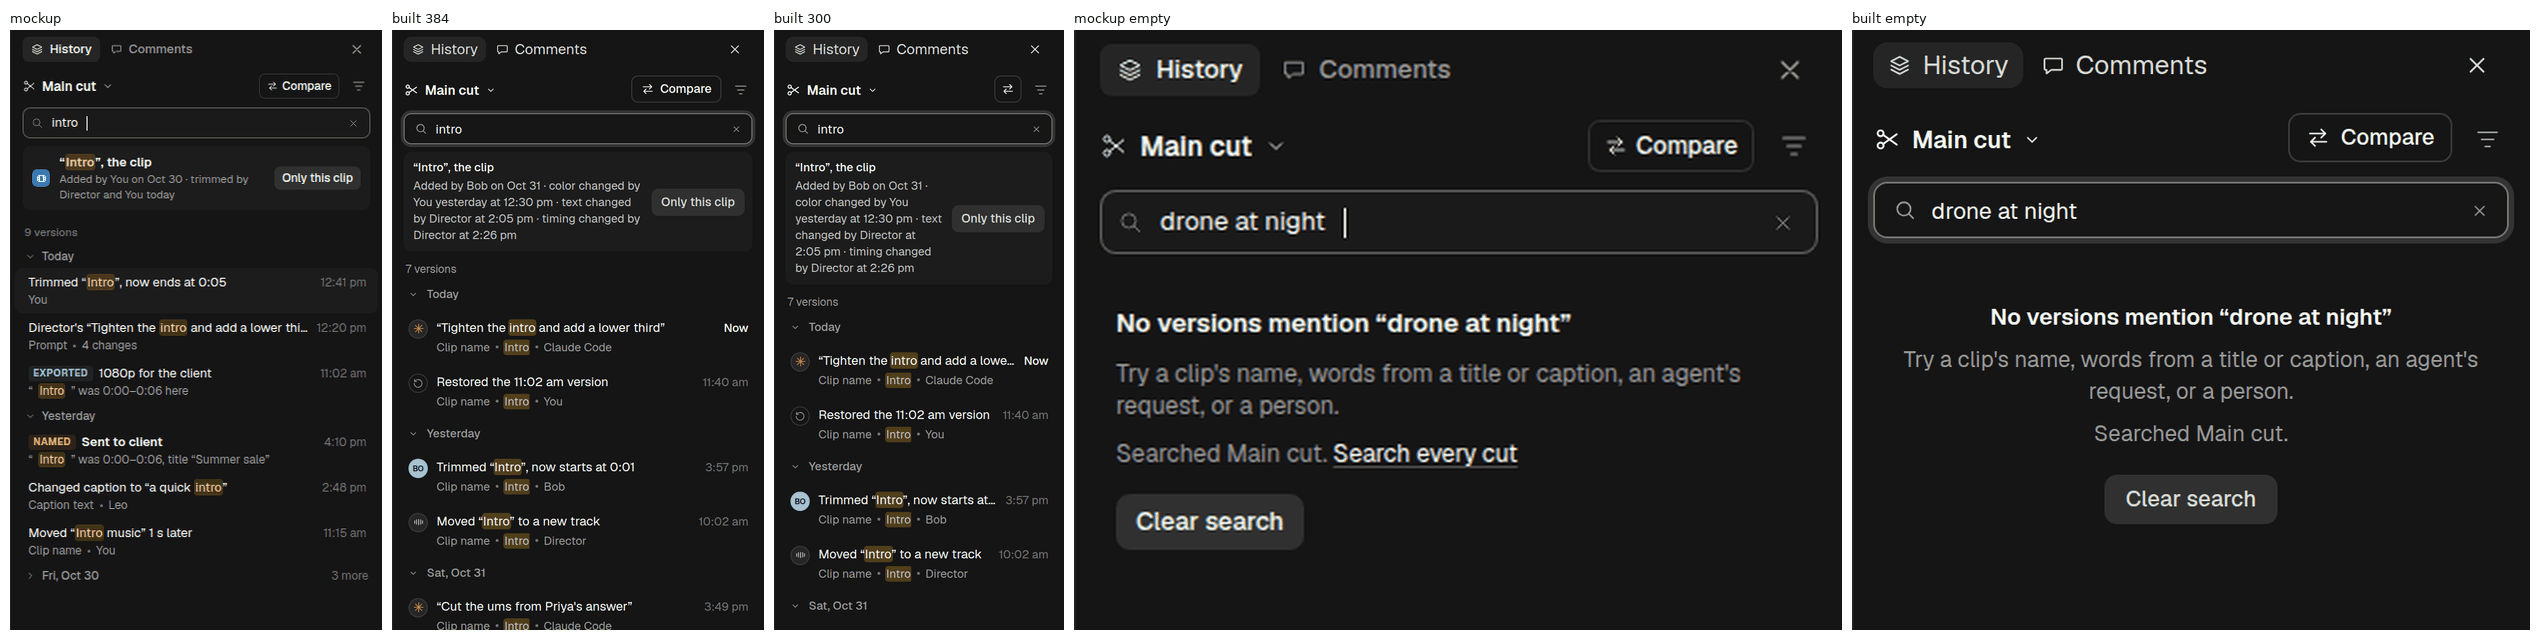
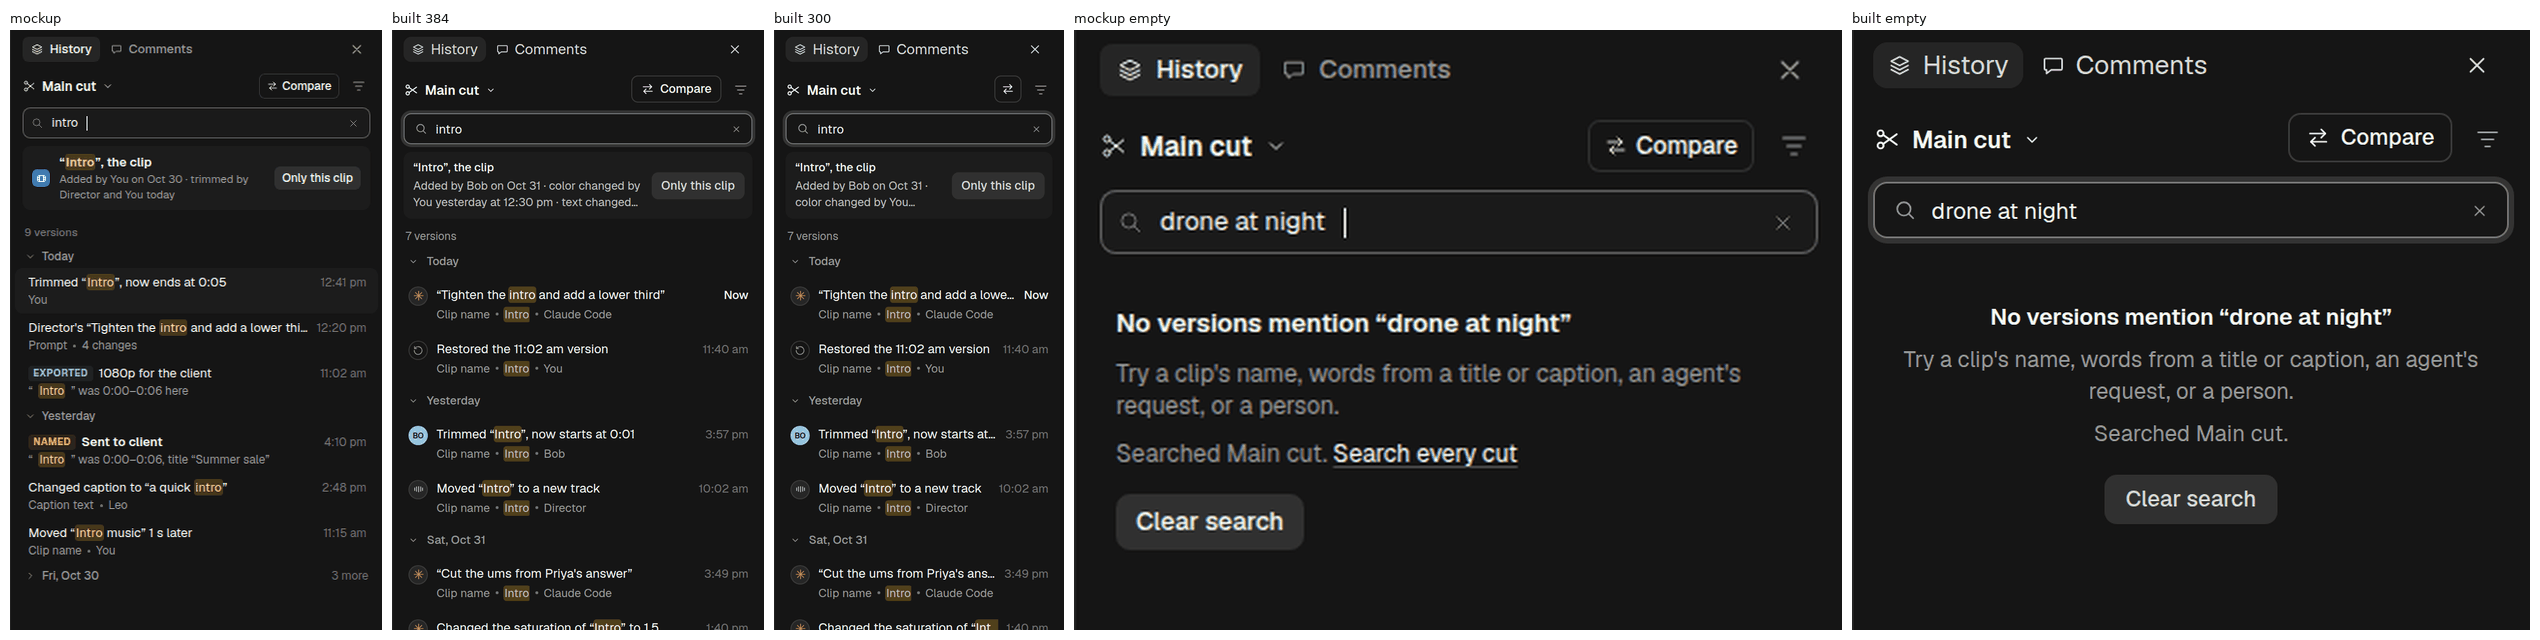
QA-V2: N1b judged; G12, G14, G19 fixed; G9's attempt and its exact fix

Changed region(s): [[0.2799, 0.2812, 0.4354, 1.0], [0.1555, 0.4062, 0.2799, 1.0], [0.1555, 0.2812, 0.311, 0.375]]

diff --git a/docs/carton-ux/v2/qa/QA-V2.md b/docs/carton-ux/v2/qa/QA-V2.md
@@ -1,7 +1,8 @@
 # Carton v2: design QA of the built UI, and its fixes
 
 **What was judged:** `origin/feat/carton-ux`, from `bbb9d771` (History v2: N2) through `6f5c00d6` (N2b, Bring back on
-N0b), `0a51cbda` (N1, Compare in the editor) and `f2136b1c` (N2c, another cut's versions in pick mode).
+N0b), `0a51cbda` (N1, Compare in the editor), `f2136b1c` (N2c, another cut's versions in pick mode) and `54954c6c` (N1b:
+Play both waits, the row detail, the new ways into Compare). Every builder's work is in.
 **Against:** `origin/design/carton-ux-v2` @ `68d40da1`, `docs/carton-ux/v2/DESIGN-V2.md` and its mockups in
 `docs/carton-ux/v2/after/`. The first design (`design/carton-ux`) and the first QA (`design/carton-ux-qa`,
 `docs/carton-ux/qa/QA.md`) still hold where v2 says nothing.
@@ -33,15 +34,21 @@ reproduced in headless Chromium with scripts (`rig/` in the scratch copy) before
   - *Separate cuts, and the agent opening it:* both work, and both name both sides.
 - **Fidelity to the mockups is high** for N2's History and N1's Compare. Most differences are the rig's data, not the
   build.
-- **What I found and fixed tonight** (§3): a bring-back's row read as the plain change it undid, in the real view model;
-  a Before landmark couldn't say which restore it kept; "↑ Newest" stuck over search results; Compare's list wasn't in
-  timeline order; Play both sat at the stage's foot, far under the pictures; the timeline legend squeezed the timecode in a narrow window;
-  a version of another cut was "an earlier version" three times on screen, and Fold in named that version though it
-  folds the cut.
-- **What stops it short of 10/10:** N1b's four items (Play both letting a side wait and the slates, the row detail,
-  the three missing ways into Compare, re-measuring), landmark titles cut off at 300 px, past days not folding their
-  runs, and the few open gaps in §4.
-- **Overall: History about 8.5/10, Compare about 8.5/10 on renders**, up from about 7.5 and 7.5 before tonight's fixes.
+- **What I found and fixed tonight** (§3):
+  - a bring-back's row read as the plain change it undid, in the real view model;
+  - a Before landmark couldn't say which restore it kept;
+  - "↑ Newest" stuck over search results; the search's clip credits ran to five lines at 300 px;
+  - a held row's chip named the version plainly, not its landmark and "holding";
+  - Compare's list wasn't in timeline order, and Play both sat at the stage's foot, far under the pictures;
+  - the timeline legend squeezed the timecode in a narrow window;
+  - across cuts, another cut's version was "an earlier version" three times on screen, Fold in named that version
+    though it folds the cut, and the count gave one length.
+- **N1b closed Compare's last design gaps**: Play both waits and shows slates, the list's row detail (Then / Now, Bring
+  back or Take out), a playing card's ⇆ Side by side, Fold in's See them side by side, a teammate cut's Compare with
+  Main cut.
+- **What stops it short of 10/10:** landmark titles cut off at 300 px (G9), past days not folding their runs (G10),
+  the few open gaps in §4, and everything in §5 that only the real app can judge.
+- **Overall: History about 8.5/10, Compare about 9/10 on renders**, up from about 7.5 and 7.5 as they came in.
 
 ## 2. Scores, before and after the fixes
 
@@ -50,8 +57,8 @@ Scores out of 10, for a newcomer editor. "Before" is the build as it came in; "a
 | Region | Before | After | Why |
 |---|---|---|---|
 | **History: landmarks, Landmarks filter, folded days** | 7 | 8 | Tags, pictures, "41 versions · 4 landmarks", the filter: as designed. Before, two restores' safety points both read "BEFORE Restoring an earlier version", and a bring-back's "BEFORE Bringing back a clip". Fixed: "Restoring the 11:02 am version", "Bringing back “B-roll 3”". Open: titles cut at 300 px (G9), past days don't fold their runs (G10) |
-| **Search: results, empty, clearing** | 7 | 8 | Debounced, newest first, the clip first with Only this clip, each row says why. Before, a search from a scrolled list kept "↑ Newest" over results already at the top, and after Clear search. Fixed. Open: the clip's credits run to five lines at 300 px (G12), no "Search every cut" (G13) |
-| **Hold to peek** | 8 | 8 | "Holding" in the row, the frame and chip while held. The hint is a native tooltip: the real app decides it |
+| **Search: results, empty, clearing** | 7 | 8.5 | Debounced, newest first, the clip first with Only this clip, each row says why. Before, a search from a scrolled list kept "↑ Newest" over results already at the top, and after Clear search. Fixed, and the clip's credits now take two lines at most (G12). Open: no "Search every cut" (G13) |
+| **Hold to peek** | 7.5 | 8.5 | "Holding" in the row, the frame and chip while held. Before, the chip named the version plainly ("Your edit from 11:52 am") while the row said Holding. Fixed: "Exported 1080p for the client · holding" (G19). The hint is a native tooltip: the real app decides it |
 | **Go back… (each choice, a clip selected)** | 8 | 9 | Four choices smallest first, nothing picked, "Choose one", each button names its action, "Ctrl+Z undoes any of these", a selected clip picked. Before, at 300 px the wrapped row put the named action alone on the right, over Cancel. Fixed |
 | **Bring back one clip (list, confirm, changed again, toast)** | 7.5 | 9 | N2b brought place, ripple and the "changed again" refusal. Before, in the real view model the new version's row read "Trimmed “Intro”, now ends at 0:05": the change it undid, so a bring-back couldn't be told from an edit. Fixed: "Brought back “Intro” from 10:20 am" / "Took out “Drone shot”" |
 | **⇆ Compare menu and pick mode** | 7 | 8.5 | The questions people ask, with pictures; pick mode with the From pill and ⇆ Compare on every row; search works while picking. At 300 px the menu ran out of the panel's left edge (N2c fixed it at the same time). N2c's another-cut picker reads well |
@@ -65,7 +72,9 @@ Scores out of 10, for a newcomer editor. "Before" is the build as it came in; "a
 | **Compare: narrow windows, the drawer** | 7.5 | 8.5 | Flip at 1250, Flip only at 1100, icons, "Done", the frame's own label. The legend fix is what moved it |
 | **Compare: across cuts** | 6 | 8 | Opened from the cuts menu, Another cut and N2c's picker. Before, another cut's older version read "“30s Instagram cut” (an earlier version)" in the chip, "(an earlier version) · an earlier version" in the range line, and in Fold in's button. Fixed: "Comparing “30s Instagram cut” at 1:53 pm with Main cut now", and the count gives each cut's length (G14) |
 | **Compare: agent-opened, idle and busy** | 9 | 9 | Idle: it opens, one toast says who. Busy or viewing: never replaced, an offer with Open |
-| **Compare: the change list** | 7.5 | 8.5 | The range in words, the count, ▶ on a row. The row detail is N1b's |
+| **Compare: the change list** | 7.5 | 9 | The range in words, the count, ▶ on a row, now in timeline order (G4). N1b's row detail: Then / Now in words, Bring back “Summer sale” or Take out, and what it does |
+| **Compare: Play both (N1b)** | 8.5 | 9 | The shorter side holds and says "waiting"; a shot only one side has gets a slate on the other, in every mode (N1b's tests). Play both now sits under the pictures (G5). The rig's stand-in player can't show the wait itself: the real app does |
+| **Compare: the ways in (N1b)** | 8 | 8.5 | See them, ⋯ Compare with your edit / with…, Shift+click, ⇆ Compare, the cuts menu, N2c's picker, and N1b's playing card's ⇆ Side by side, Fold in's See them side by side (with Back to Fold in…) and a teammate cut's Compare with Main cut |
 
 ## 3. Gaps fixed on `fix/ux2-qa`
 
@@ -81,6 +90,8 @@ Each with a test where it's behaviour; every one shot before and after in the ri
 | G6 | **The legend squeezed the timecode** onto three lines in a 1100 px window: it hid by window width (≤ 900 px), not the timeline's | It shows only when the timeline's toolbar row is 900 px or wider (DESIGN-V2 §1.6). Cardboard's timeline region is `display: contents`, so the row is measured | `compare.test.js` §1.6, a narrow and a wide toolbar row |
 | G7 | **Another cut's older version was "an earlier version"** in the chip, twice in the range line, and in "Fold in changes from “30s Instagram cut” (an earlier version)…", though Fold in folds that cut as it is now | `openCompare` reads that version from its cut's History before naming the sides: "Comparing “30s Instagram cut” at 1:53 pm with Main cut now"; the range line "“30s Instagram cut” · 1:53 pm / with Main cut · your edit now"; Fold in names the cut | `compare.test.js` "N1 with N2" |
 | G14 | Across cuts the count gave one length ("7 differences · 0:38"); §1.12 gives each cut's | The panel's count gives both, left first: "7 differences · 0:30 and 0:36" | `compare.test.js` §1.1 |
+| G12 | The search's "“Intro”, the clip" credits ran to five lines at 300 px and pushed the results below the fold | Two lines at most, the whole on hover (the clip filter's card keeps them whole) | shot `history-search` |
+| G19 | **While a row was held to peek, the chip said the version's plain label** ("👁 Your edit from 11:52 am"), not its landmark and "holding" (§2.4) | `usePeek` takes `labelOf`: the row's landmark as one phrase plus " · holding"; a view of a row given with its own label keeps it (from-carton and the mock; a ref's label, as Comments' See it as it was gives, is unchanged) | `history-v2.dom.test.ts` peek, `ux2-n0.test.ts` |
 | G8 | **Go back…'s and Bring back's actions** at 300 px: the named action alone on the right, over Cancel | Left-aligned when they wrap | shot `bring-back-confirm-300` before/after |
 | — | Two rig shots broke when ⋯ entries started opening Go back… (`after-toast-newcut`, `history-restore-error`) | Their steps go through Go back… | the rig, both runtimes |
 
@@ -88,32 +99,30 @@ N2c fixed the Compare menu's clipping at 300 px at the same time as I did; its C
 
 ## 4. Open gaps, by impact, with their exact fixes
 
-**N1b's, being built (not fixed here, by agreement):**
-- Play both doesn't let a side wait: a longer left shot is cut short, and a left-only shot is skipped (§1.4: hold the
-  last frame with "waiting", and the slate "“Drone shot” isn't in “Sent to client”").
-- The row detail in Compare's list: Then / Now in words, and Bring back one clip there (§1.5, §3.2).
-- The card's "⇆ Side by side" while playing, Fold in's "See them side by side", a teammate cut's "Compare with Main
-  cut".
-- Re-measuring Play both.
+**N1b's four items** (built by N1b, judged here, not changed by me): Play both's wait and slates are as §1.4 says in
+N1b's tests (`compare.test.js` "N1b §1.4", `compare-view.dom.test.ts` slates); the rig's stand-in player doesn't
+render the wait, so it is on the real-app list (§5). The row detail matches the mockup; its line is longer than the
+mockup's ("It goes back to how it was at 12:05 pm: its timing, text, look and settings. Nothing else moves. Ctrl+Z
+takes it back." against "Only this title changes. Ctrl+Z takes it back."), which is accurate and reads fine at 300 px.
+The playing card's ⇆ Side by side opens Compare between the version before and the version, still playing. Re-measuring
+Play both is N1b's.
 
 **Mine to list (too big, or not mine, tonight):**
 
 | # | Gap | Impact | Exact fix |
 |---|---|---|---|
-| G9 | **Landmark titles are cut at 300 px** ("EXPORTED 1080p for th…", "BEFORE Restoring an ea…"). DESIGN-V2 §2.1: "Below 340 px a landmark's title wraps to two lines rather than losing its words to the tag" | Medium: at the narrowest panel the moments people look for lose their words | Rows are fixed-height virtual rows. In `HistoryPanel.ts`, `heightOf(i)`: a landmark row (not a turn) gets `VERSION_ROW_HEIGHT + 18` when the panel is under 340 px (the panel's width is known from its ResizeObserver); in `history-v2.ts`, `@container (max-width: 340px)` gives `.carton-version[data-landmark]:not([data-landmark=turn]) .carton-version-title` `white-space: normal; -webkit-line-clamp: 2; display: -webkit-box`. The tops array already takes per-row heights |
+| G9 | **Landmark titles are cut at 300 px** ("EXPORTED 1080p for th…", "BEFORE Restoring the 11:…"). DESIGN-V2 §2.1: "Below 340 px a landmark's title wraps to two lines rather than losing its words to the tag" | Medium: at the narrowest panel the moments people look for lose their words | Rows are fixed-height virtual rows, so a wrap needs a taller row. Tried tonight and reverted: every landmark row 18 px taller under 340 px (a ResizeObserver on the panel, `heightOf`, `layoutKey: { rows, wraps }`, `grid-template-rows: 36px 16px` and a two-line clamp): short titles left a gap, and in the rig Today's rows went missing at 300 px after the re-layout. The fix that holds: (1) in `HistoryPanel`, decide per row whether its title overflows: `landmarkTitle`'s text width with Cardboard's 13 px font, measured once per (title, panel width) with a canvas `measureText` cached in a Map, against the title column's width (panel width − 22 − 8 − the time column); (2) only those rows get `LANDMARK_WRAP_ROW_HEIGHT` in `heightOf` and `data-wrap`; (3) find why VirtualList drops the rows above a row whose height changes when `layoutKey` changes (its anchor keeps `into` from the old tops) and test it in `history-v2.dom.test.ts` at 300 px |
 | G10 | **An opened past day lists every version** instead of its landmarks with one line per run between them ("› 18 changes by You and Claude Code", §2.5) | Medium: yesterday's 23 rows are noise when looking for a moment | In `history-groups.ts`, a past, opened day becomes: each landmark row, and between two landmarks a `run` row (`{ kind: "run", ids, authors }`, words "N changes by A and B") that opens in place like a group. Today is never folded this way |
 | G11 | The mock's bring-back row still says "from an earlier version" (gallery only: the real view model is fixed by G1) | Low: rig only | `mock-find.ts` `restoreClip`: summary `Brought back “X” from ${clockOfDay(version.at)}` |
-| G12 | The search's "“Intro”, the clip" credits run to five lines at 300 px ("color changed by You yesterday at 12:30 pm · text changed by Director at 2:05 pm · …") | Low–medium: pushes the results below the fold | `ClipCredits` in the search: one line, latest two parts and "+ N more", e.g. "Added by Bob on Oct 31 · trimmed by Director today", the rest in its tooltip |
 | G13 | Search's empty state has no "Search every cut" (§2.3) | Low | `HistoryPanel` empty-search: a `carton-link` "Search every cut" that re-runs `find(q, { allCuts: true })`; each hit's meta line gets its cut's dot and name |
 | G15 | While B is held in Flip, the timeline's marks, strip and legend go. That is right for what's on screen: Flip swaps the editor's timeline to the left side too (Before's swap), and the marks are placed on the right side's clips. The mockup keeps them | Low: a flick, and the list stays | No code change. DESIGN-V2 §1.3's Flip row should say "While held, the timeline shows the left side as well; its marks come back on release" |
 | G16 | The pinned day header says "Today" for about one header's height after yesterday's rows reach the top | Low | `HistoryPanel` `stickyAt`: use the row under the header's bottom edge (`scrollTop + 32`) for `topRow`, not `scrollTop` |
 | G17 | A removed caption's ghost has no name when the clip is narrow (mockup: "our new" in red) | Low | `CompareMarks`: draw the ghost's name when it's at least 24 px wide (the tag's 36 px rule is for tags) |
-| G18 | Without a host Compare (no `openCompare`), the Compare menu's "Another cut" opens nothing | Low: every shipped host has N1 now | `CompareMenu`: list the cut entries only when `typeof ui.openCompare === "function"` |
 
 ## 5. What only the real Windows app can judge
 
 - **The second player:** ready within 2 s, the Flip-only fallback on a real failure, GPU memory, Play both in step on
-  real footage, and no cost while not comparing (DESIGN-V2 §6; N1's FEASIBILITY.md §5). On mains power, the NVIDIA GPU
+  real footage (a side holding its last frame with "waiting", the slates: the rig's stand-in can't show them), and no cost while not comparing (DESIGN-V2 §6; N1's FEASIBILITY.md §5). On mains power, the NVIDIA GPU
   checked (AGENTS.md).
 - **The marks on Cardboard's canvas timeline:** their places on real clips, at zoom and scroll; the legend's hiding on
   the real toolbar row (G6 measures `.justify-between`, the rig's stand-in has the same structure).
@@ -158,3 +167,4 @@ In `shots/`, each with its mockup beside it where one exists. 384 and 300 px pan
 | `compare-narrow.png` | 1250 and 1100 px windows, the drawer hidden |
 | `compare-cuts.png` | Across cuts: the cuts menu's Compare (G14's two lengths), and G7 before/after (opened from N2c's picker in a scenario with no second player, so Flip only) |
 | `compare-agent.png` | Agent-opened, idle and busy; the edit attempt |
+| `compare-n1b.png` | N1b: the row detail at 384 and 300 beside the mockups, a playing card's ⇆ Side by side, Play both after G5 |
